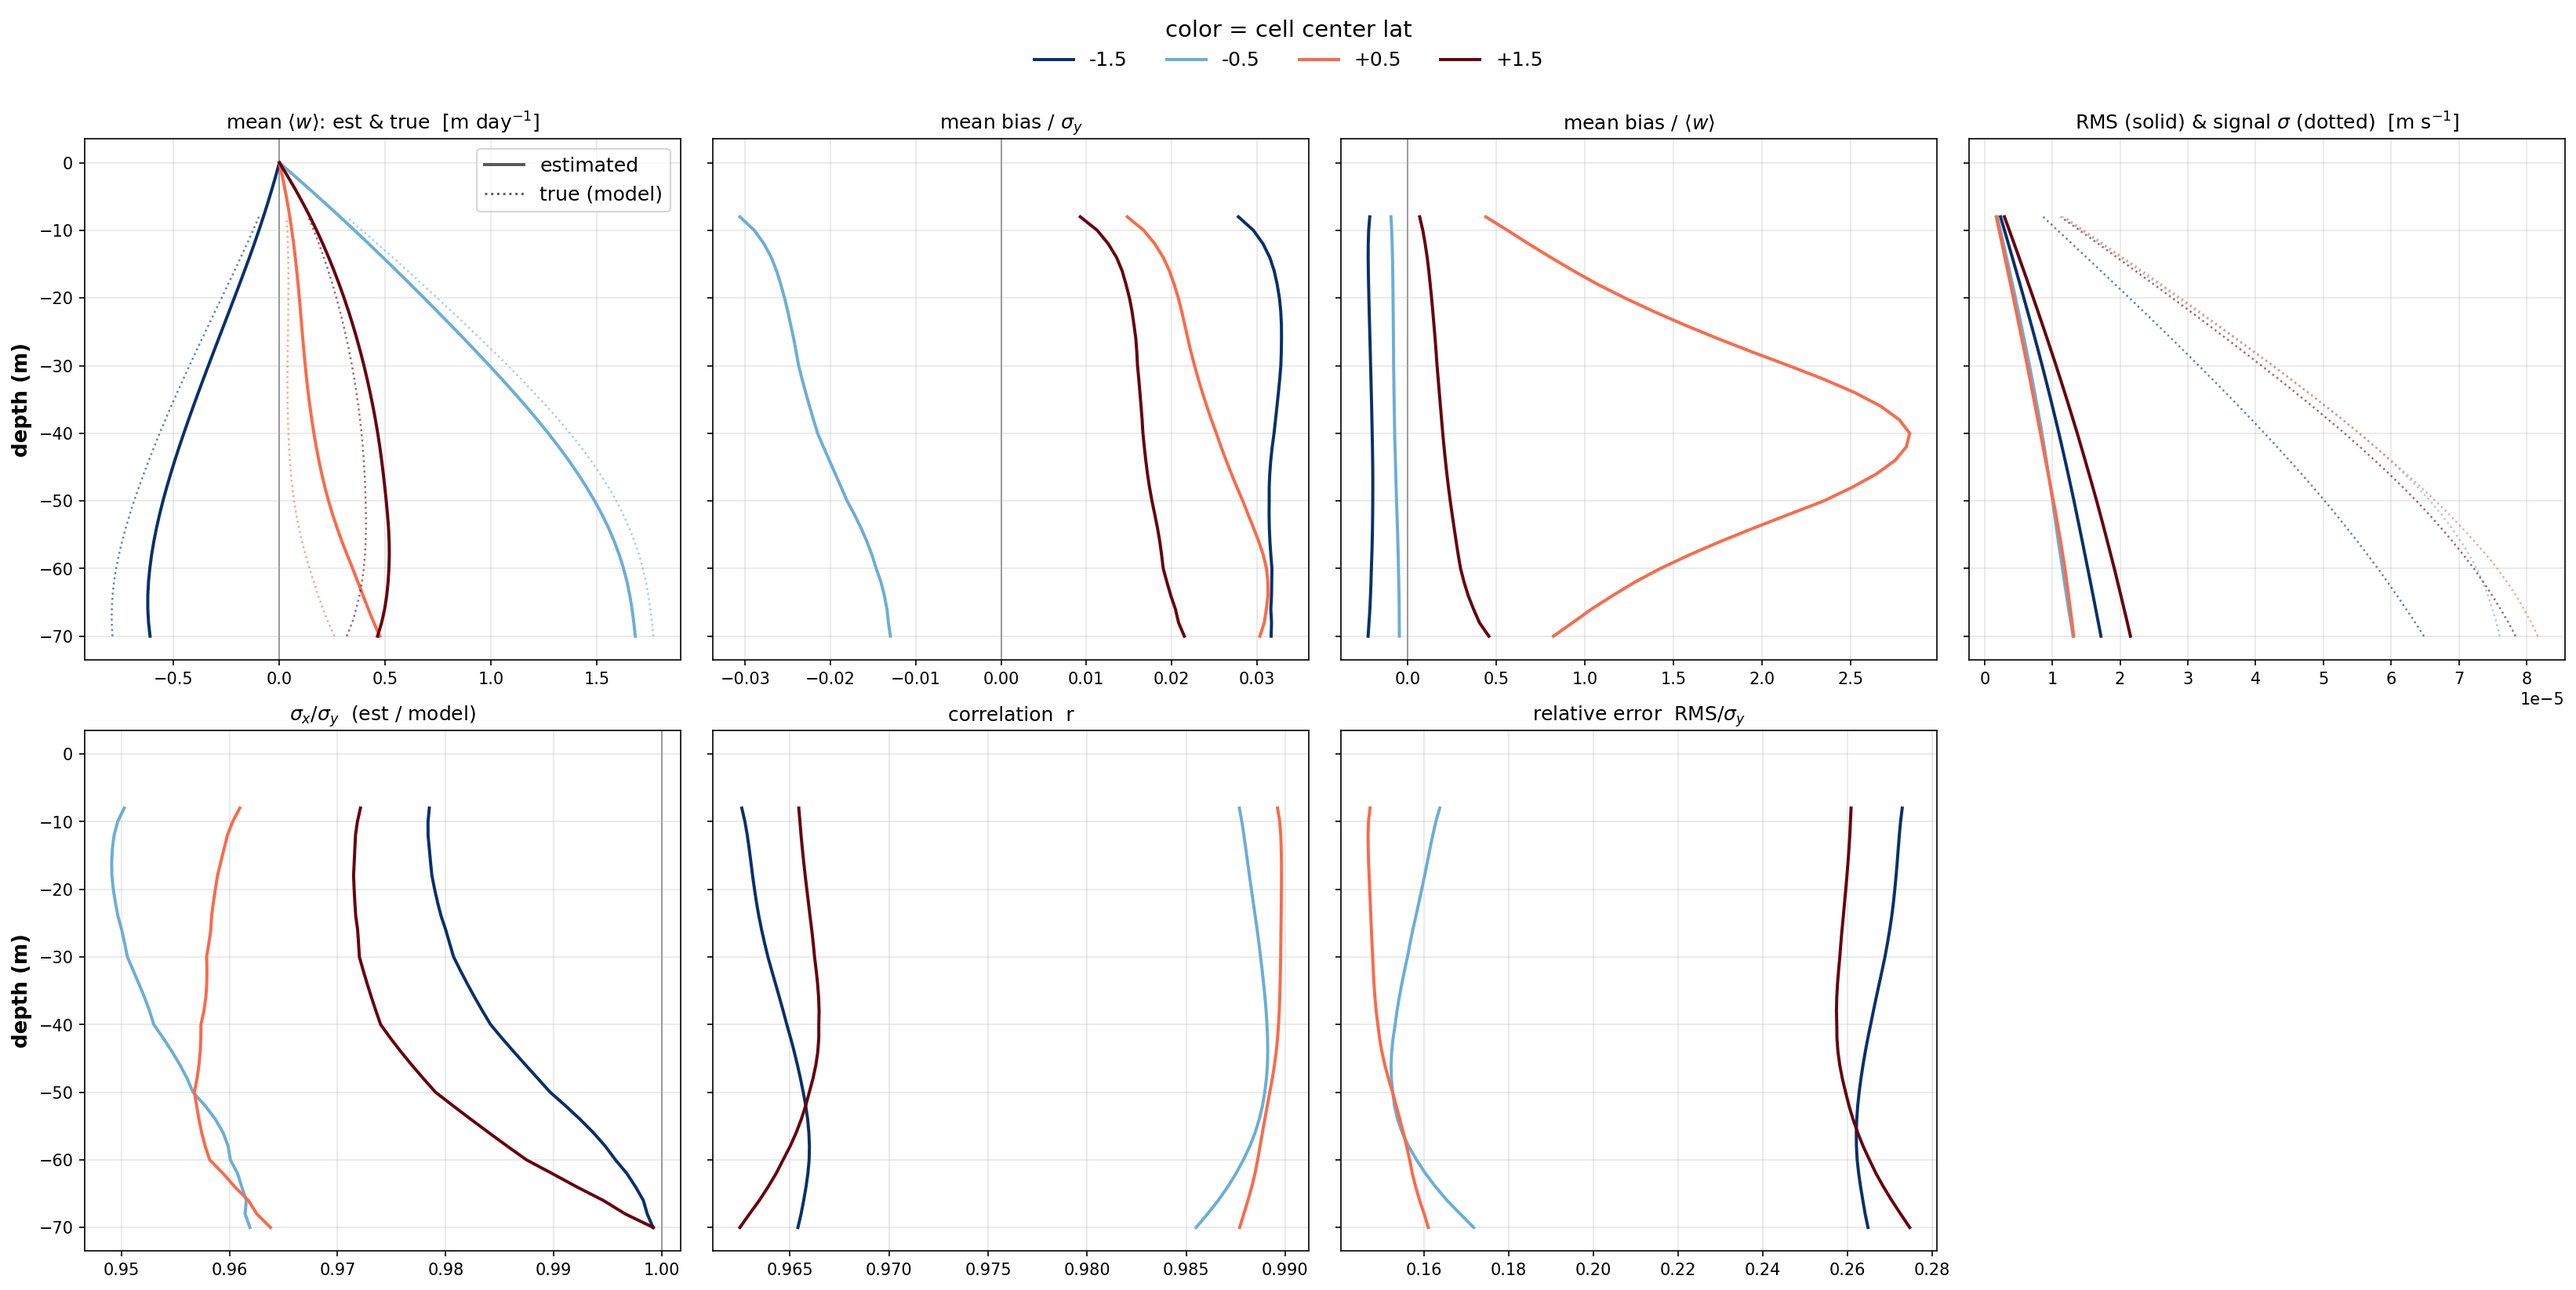
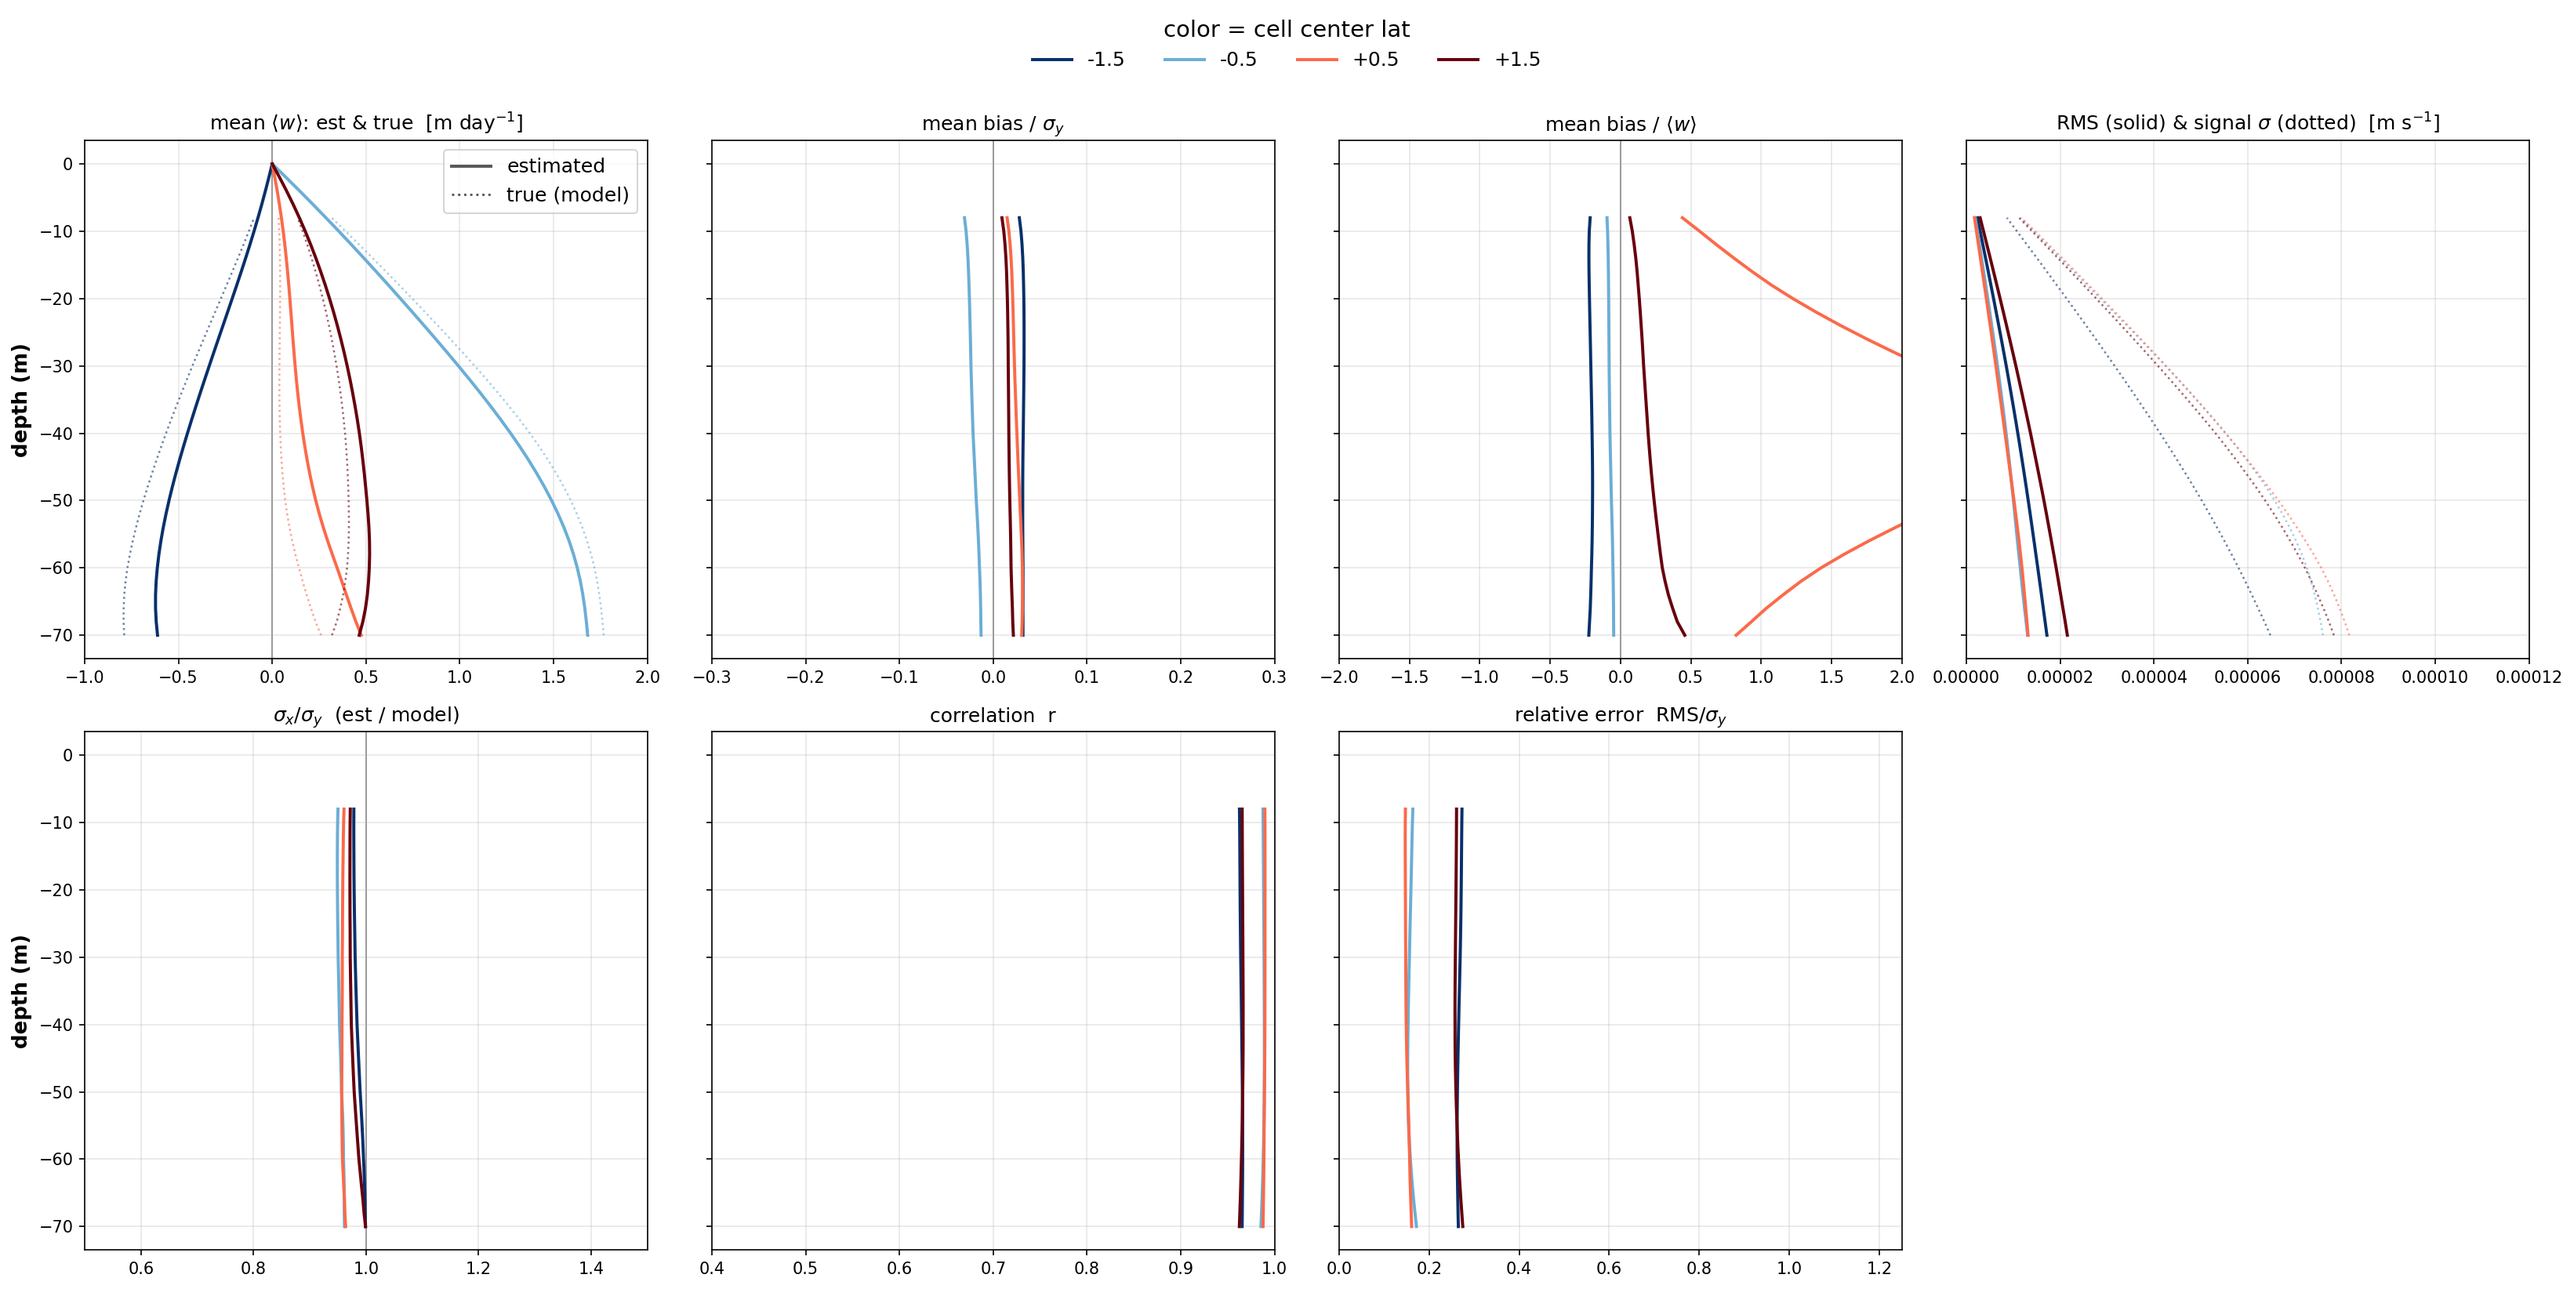
reformating summary figs 5

diff --git a/experiment_2/derive_from_4.py b/experiment_2/derive_from_4.py
@@ -1,0 +1,53 @@
+#!/usr/bin/env python
+"""
+derive_from_4.py — build experiment_2's data by subsetting experiment_4's.
+
+experiment_2 and experiment_4 use the IDENTICAL w method (extrapolate_to_surface
+=True, w=0 at 0 m); they differ only in MAX_DEPTH (70 vs 120 m). compute_w_planefit
+integrates w downward from the surface, so w_est over 8-70 m does not depend on how
+deep the profile was sampled — the 8-70 m slice of a 4 profile is bit-identical to a
+native 2 profile (same for w_model, a per-depth WVEL interpolation). So we can avoid
+re-sampling the Ri5 model for 2 entirely: just copy each experiment_4/data/*.nc,
+truncated to depth >= -MAX_DEPTH (70 m), into experiment_2/data/.
+
+The truncation is REQUIRED, not cosmetic: run_experiment_2.py / w_skill_metrics pool
+skill over the whole depth range stored in the file, so an un-truncated 4 file would
+yield 8-120 m metrics.
+
+After this runs, `python run_experiment_2.py` finds every cell cached and rebuilds
+metrics.csv (stamped MIN_DEPTH=8, MAX_DEPTH=70) without opening the model.
+
+Run (from the tpose env):  python experiment_2/derive_from_4.py
+"""
+import glob
+import os
+
+import xarray as xr
+
+HERE = os.path.dirname(os.path.abspath(__file__))
+REPO = os.path.dirname(HERE)
+SRC_DIR = os.path.join(REPO, 'experiment_4', 'data')
+DST_DIR = os.path.join(HERE, 'data')
+MAX_DEPTH = 70   # keep in sync with run_experiment_2.py
+
+
+def main():
+    os.makedirs(DST_DIR, exist_ok=True)
+    src_files = sorted(glob.glob(os.path.join(SRC_DIR, '*.nc')))
+    if not src_files:
+        raise SystemExit(f'No source .nc files in {SRC_DIR} — run experiment_4 first.')
+    print(f'Subsetting {len(src_files)} files from {SRC_DIR} to depth >= -{MAX_DEPTH} m')
+    for src in src_files:
+        dst = os.path.join(DST_DIR, os.path.basename(src))
+        with xr.open_dataset(src) as ds:
+            # depth is ascending after the exp4 save (-120, ..., -2, 0); keep depth
+            # >= -MAX_DEPTH, i.e. the -70 .. 0 slice (36 interfaces), matching a
+            # native 8-70 m experiment_2 file.
+            sub = ds.sel(depth=slice(-MAX_DEPTH, 0)).load()
+        sub.to_netcdf(dst)
+    print(f'Wrote {len(src_files)} truncated files -> {DST_DIR}')
+    print('Now run:  python run_experiment_2.py   (builds metrics.csv from cached files)')
+
+
+if __name__ == '__main__':
+    main()
